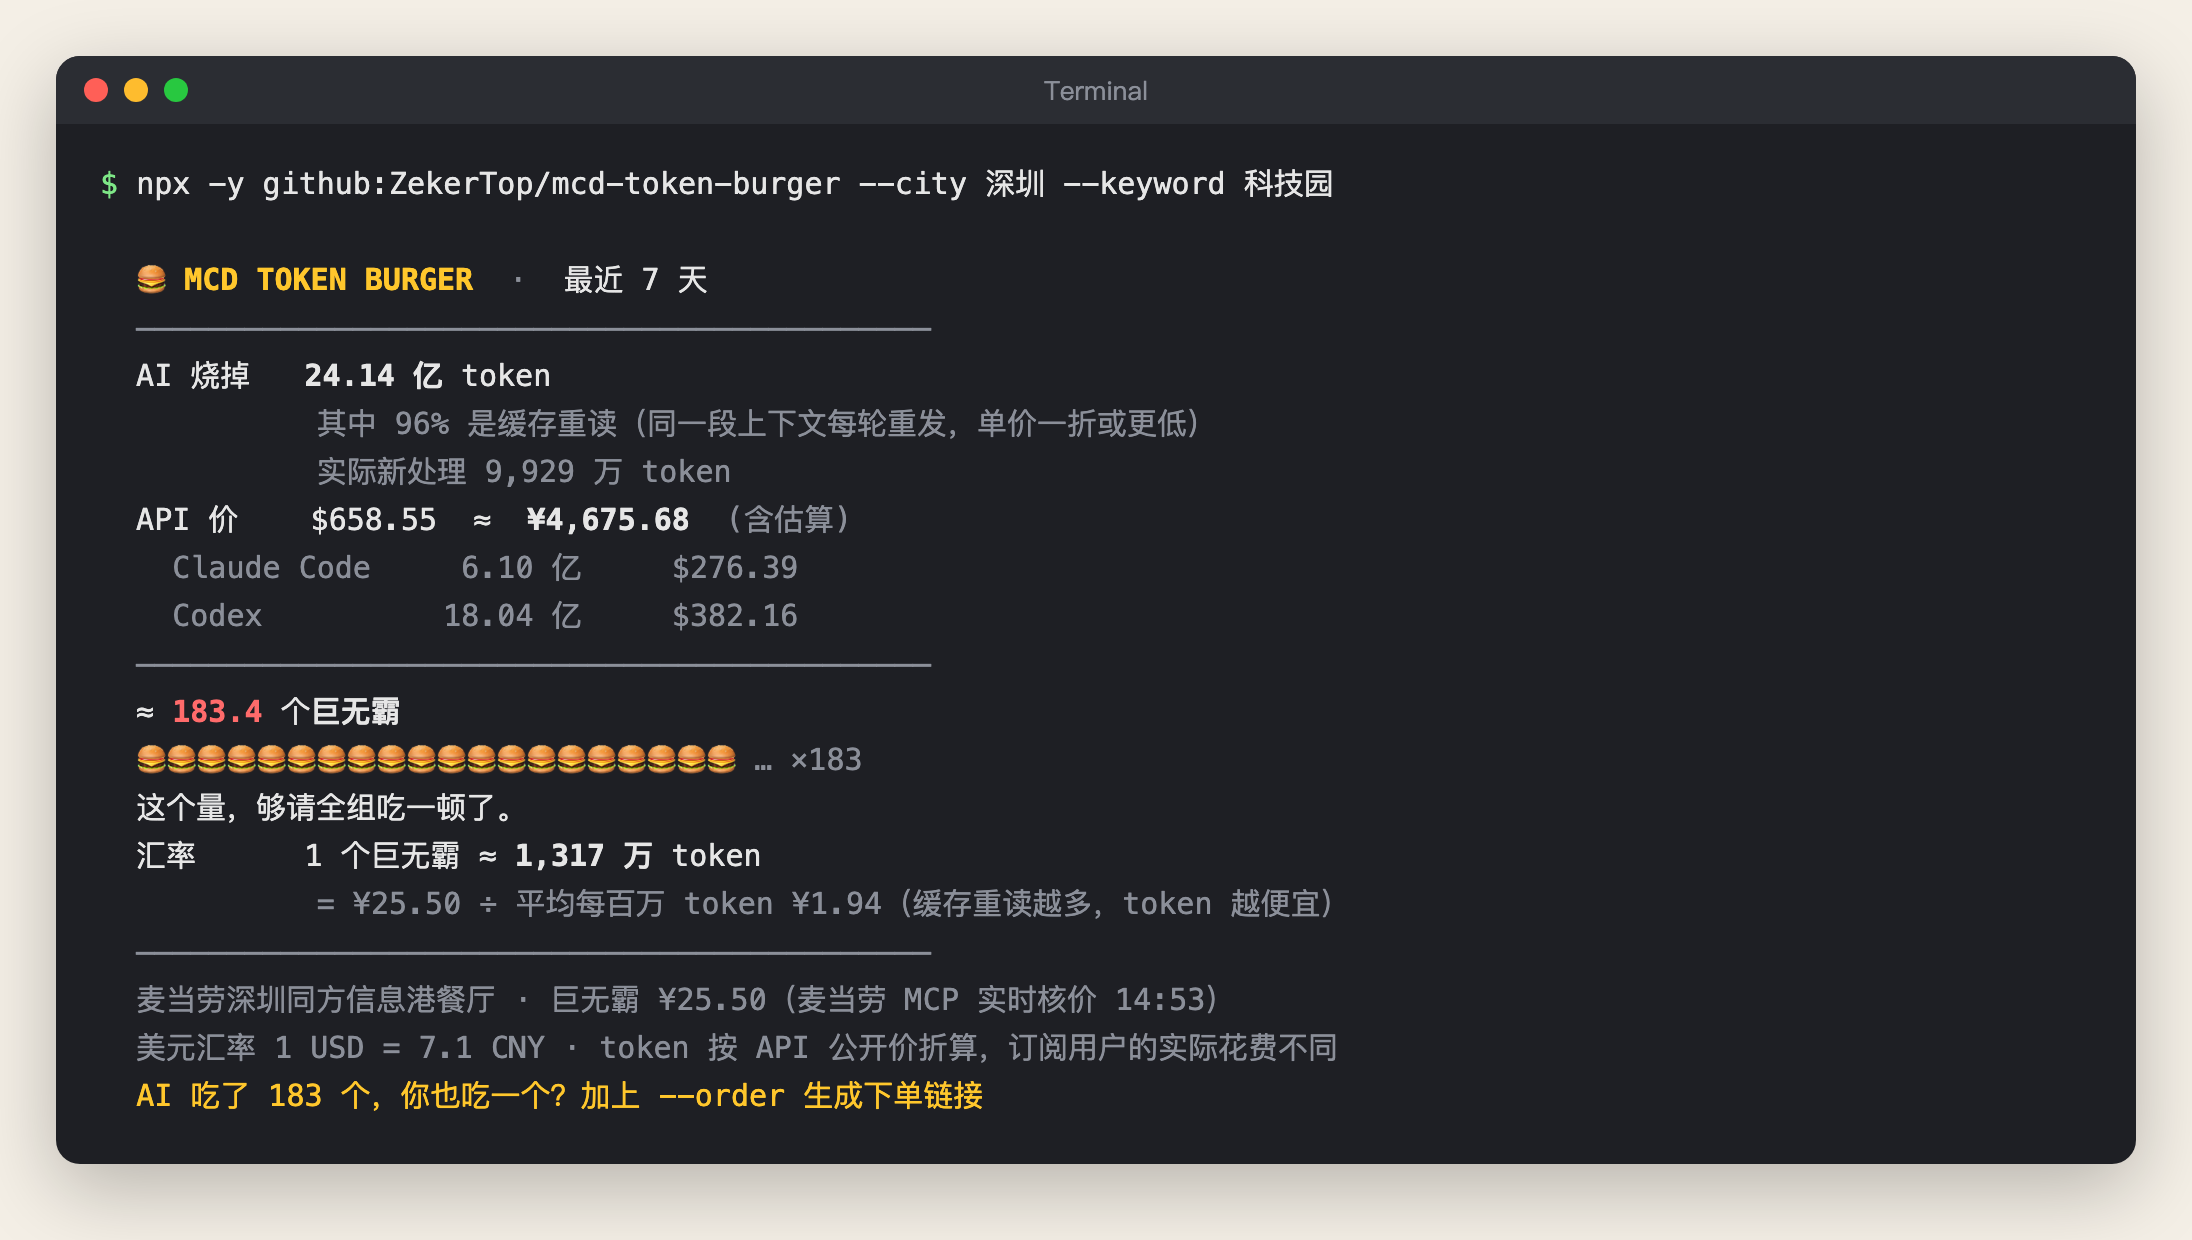
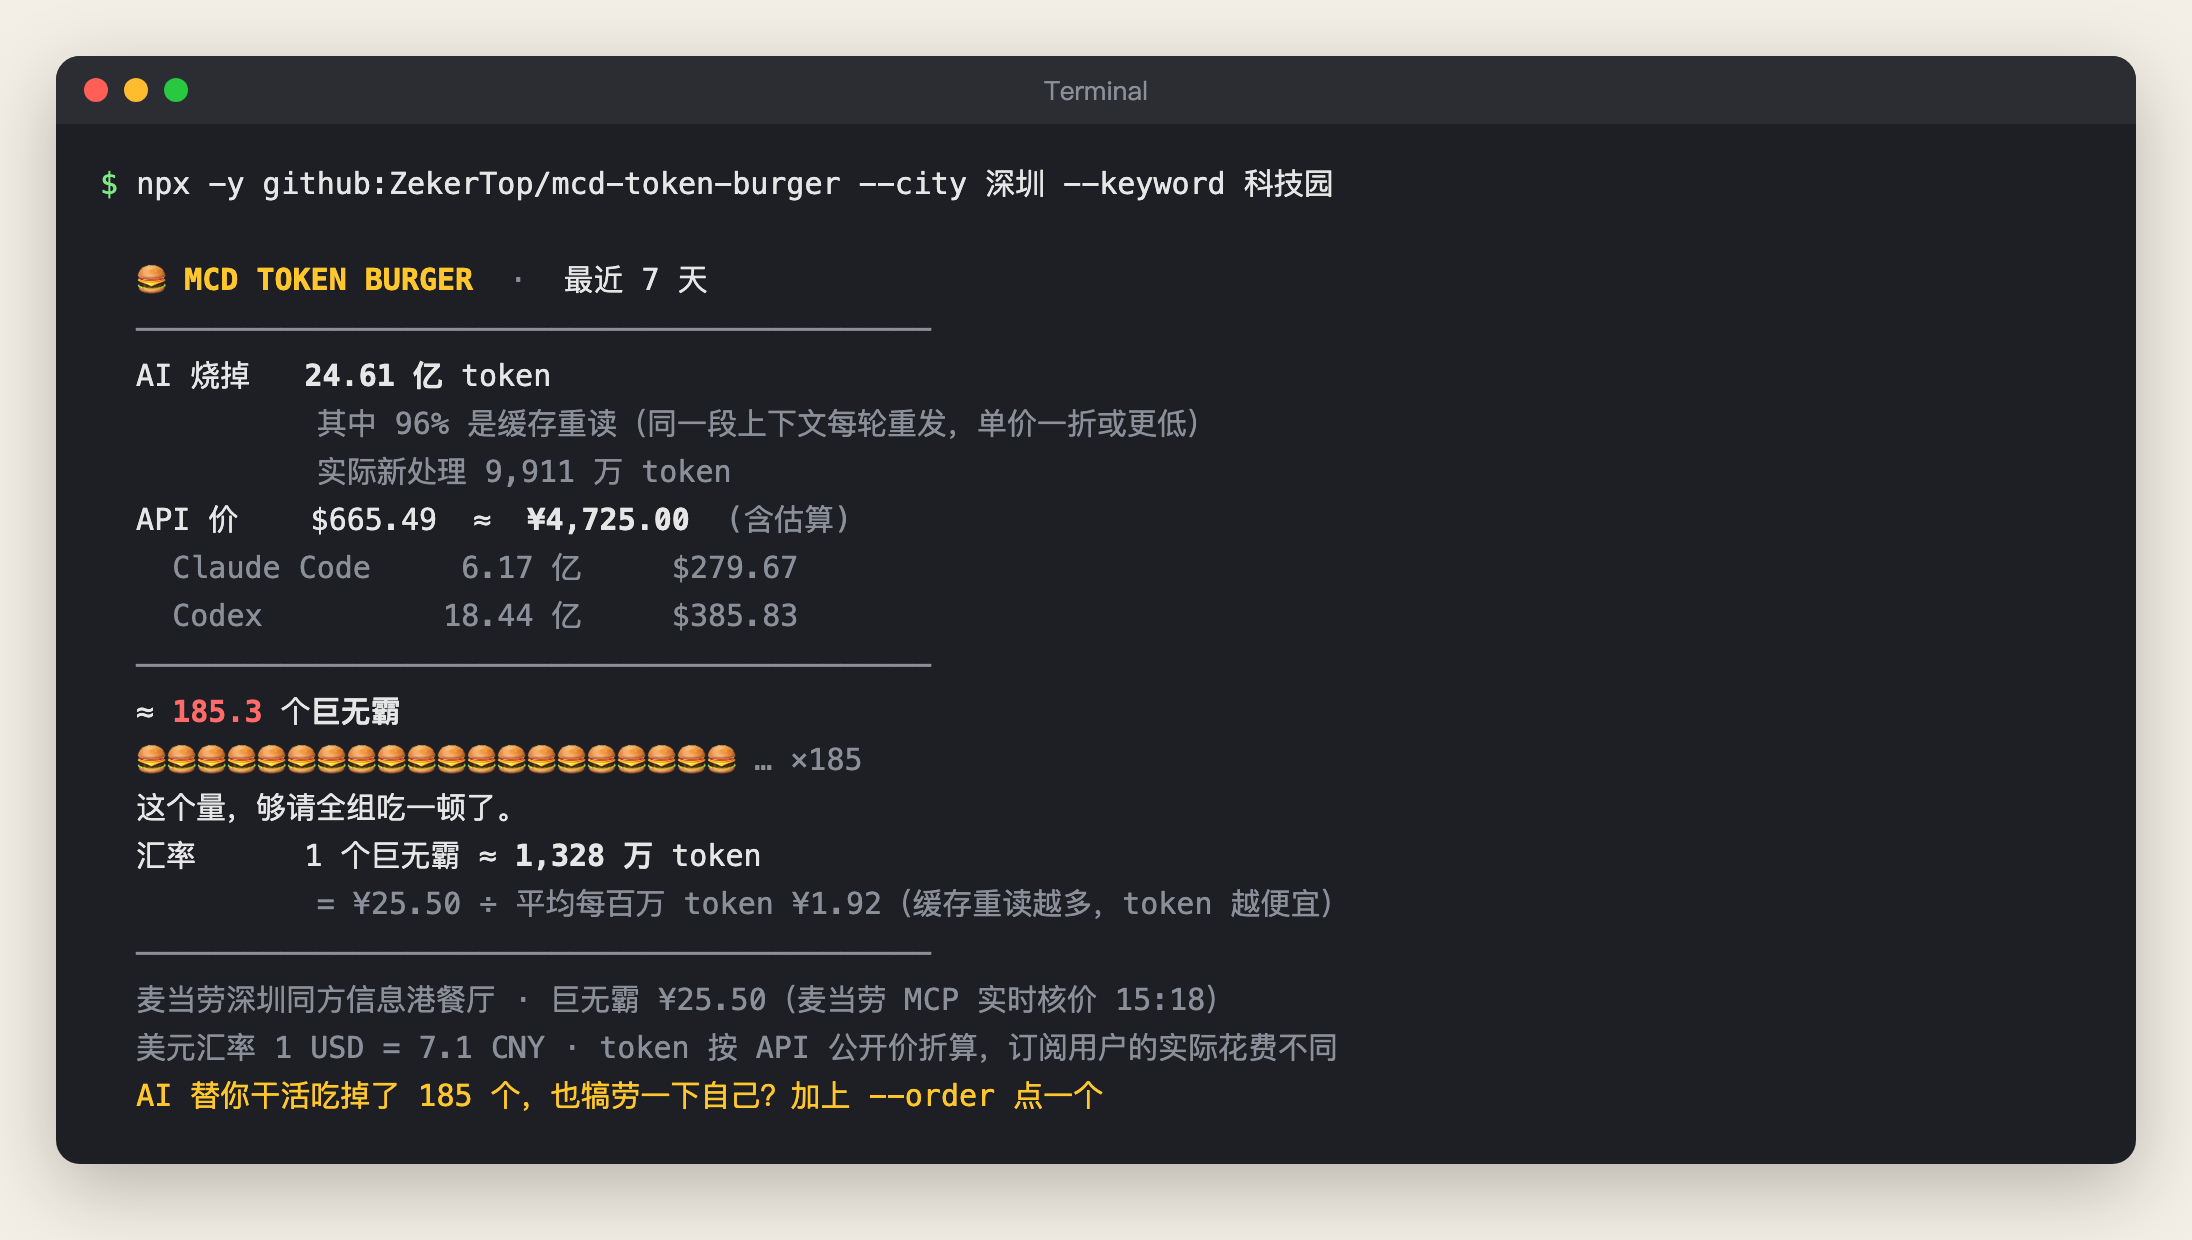
docs: 截图换成犒劳自己文案和外带下单确认

diff --git a/README.md b/README.md
@@ -187,7 +187,7 @@ npx -y github:ZekerTop/mcd-token-burger --city 深圳 --keyword 科技园 --orde
 npx -y github:ZekerTop/mcd-token-burger --city 深圳 --keyword 科技园 --order --pickup 外带
 ```
 
-![下单前的确认](docs/images/order.png)
+![外带下单前的确认](docs/images/order.png)
 
 ### 全部参数
 
@@ -224,9 +224,9 @@ npx -y github:ZekerTop/mcd-token-burger --city 深圳 --keyword 科技园 --orde
 汇率 = 巨无霸到手价 ÷ 平均每 token 的 API 价
 ```
 
-作者本机最近 7 天的数据：24.14 亿 token 按 API 价约 ¥4,675.68，平均每百万 token ¥1.94；巨无霸 ¥25.50，所以 1 个巨无霸 ≈ 1,317 万 token。
+作者本机最近 7 天的数据：24.61 亿 token 按 API 价约 ¥4,725.00，平均每百万 token ¥1.92；巨无霸 ¥25.50，所以 1 个巨无霸 ≈ 1,328 万 token。
 
-为什么动不动就几亿 token？因为 Agent 每走一步，都要把整段对话和读过的文件重新发给模型一次，同一段上下文会被重复计数几十次，这部分叫「缓存重读」。作者本机 96% 的 token 都是缓存重读，实际新处理的只有 9,929 万。缓存重读的单价只有正常输入的一折或更低，所以几亿 token 换不出几亿份的钱。卡片会把这个占比单独列出来。
+为什么动不动就几亿 token？因为 Agent 每走一步，都要把整段对话和读过的文件重新发给模型一次，同一段上下文会被重复计数几十次，这部分叫「缓存重读」。作者本机 96% 的 token 都是缓存重读，实际新处理的只有 9,911 万。缓存重读的单价只有正常输入的一折或更低，所以几亿 token 换不出几亿份的钱。卡片会把这个占比单独列出来。
 
 汇率会随两件事变化：门店价格，以及你的用法。缓存占比越高、用的模型越便宜，每个 token 就越便宜，1 个巨无霸折合的 token 也就越多。
 
